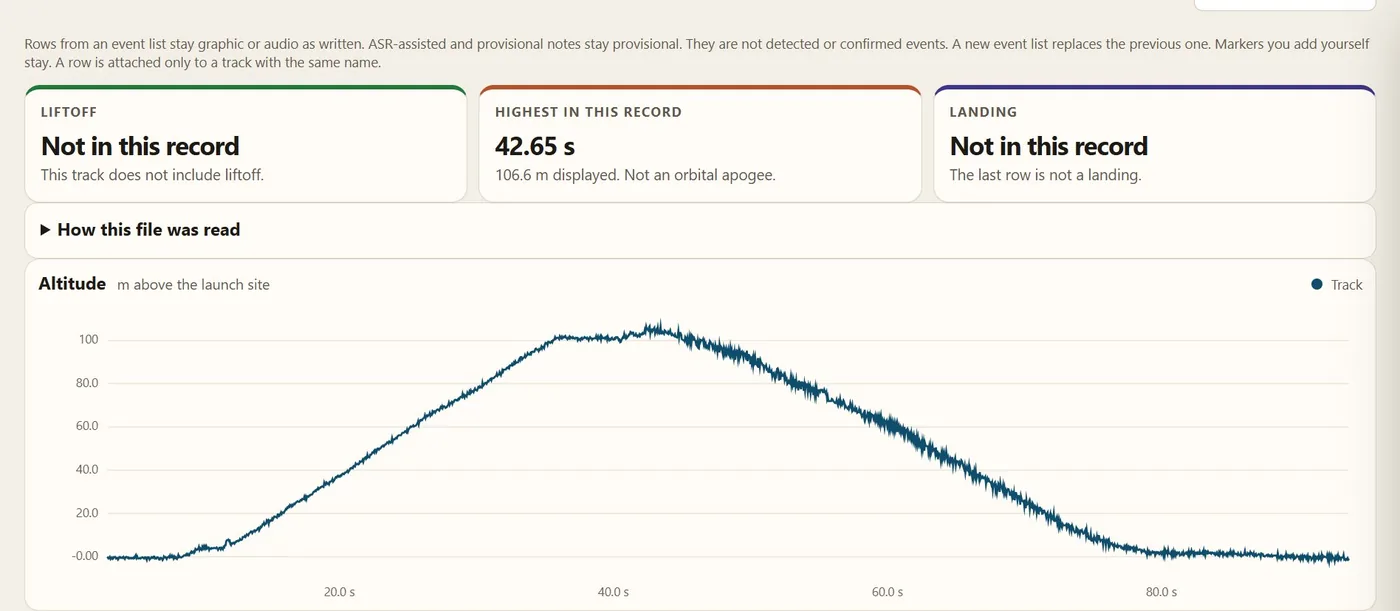
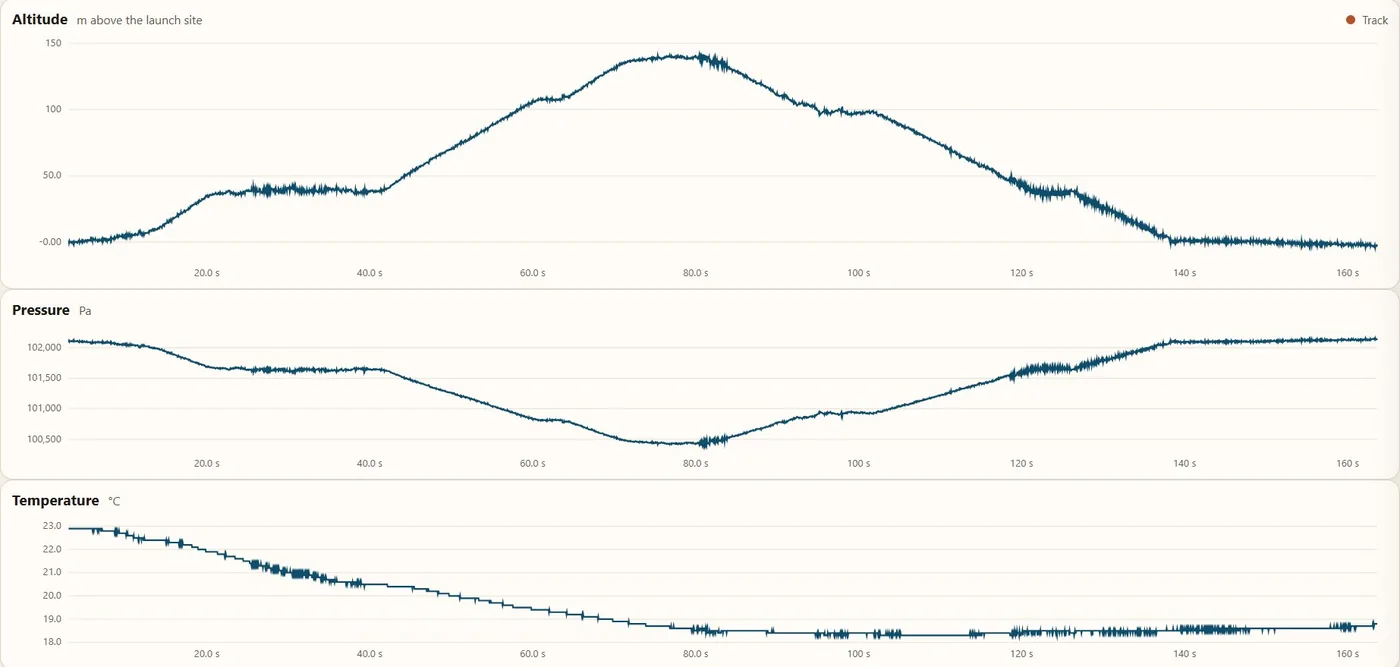
Say the Mavic logger flew up to about 150 m.
Use the later trial's altitude, pressure, and temperature chart, and update the home page line so it no longer says the flight test is next.

diff --git a/projects/index.html b/projects/index.html
@@ -100,10 +100,10 @@
           <div class="project-shots">
             <figure class="shot-figure">
               <button type="button" class="shot" aria-haspopup="dialog">
-                <img src="/assets/projects/mavic-1.webp" width="1400" height="611" alt="FlightLog altitude chart from the Mavic Mini logger. The highest point in the record is 106.6 m." loading="lazy" decoding="async">
+                <img src="/assets/projects/mavic-1.webp" width="1400" height="667" alt="Charts of altitude, pressure, and temperature from the Mavic Mini logger, with altitude rising to near 150 m." loading="lazy" decoding="async">
                 <span class="shot-zoom">Enlarge</span>
               </button>
-              <figcaption><a href="https://x.com/i/status/2123766388997394456">Photo on X</a></figcaption>
+              <figcaption><a href="https://x.com/i/status/2123769336330650089">Photo on X</a></figcaption>
             </figure>
             <figure class="shot-figure">
               <button type="button" class="shot" aria-haspopup="dialog">
@@ -113,7 +113,7 @@
               <figcaption><a href="https://x.com/i/status/2123769336330650089">Photo on X</a></figcaption>
             </figure>
           </div>
-          <p>I built an Arduino Nano and BMP180 logger for a DJI Mavic Mini. It sits in a 3D-printed top mount and writes pressure, temperature, and altitude to a microSD card. I flew it to about 100 m, and it logged how those changed on the way up.</p>
+          <p>I built an Arduino Nano and BMP180 logger for a DJI Mavic Mini. It sits in a 3D-printed top mount and writes pressure, temperature, and altitude to a microSD card. I flew it up to about 150 m, and it logged how those changed on the way up.</p>
           <p class="link-row">
             <a href="https://x.com/lukedw09/status/2123766388997394456">We got data</a>
           </p>

diff --git a/index.html b/index.html
@@ -61,7 +61,7 @@
             <a class="row-link" href="/projects/#mavic">
               <span class="idx">03</span>
               <span class="name">Mavic Mini logger</span>
-              <span class="blurb">Bench test passed on Nov 12, 2026. Flight test is next.</span>
+              <span class="blurb">I flew it and logged pressure, temperature, and altitude up to about 150 m.</span>
             </a>
           </li>
           <li>
